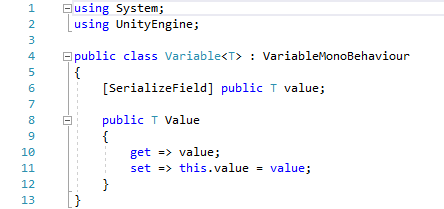
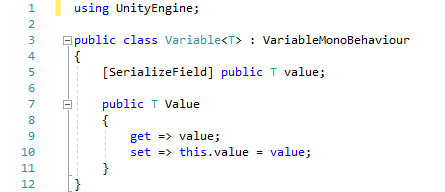
Update

diff --git a/Runtime/Local/Variable.cs b/Runtime/Local/Variable.cs
@@ -1,5 +1,4 @@
-using System;
-using UnityEngine;
+using UnityEngine;
 
 public class Variable<T> : VariableMonoBehaviour
 {
